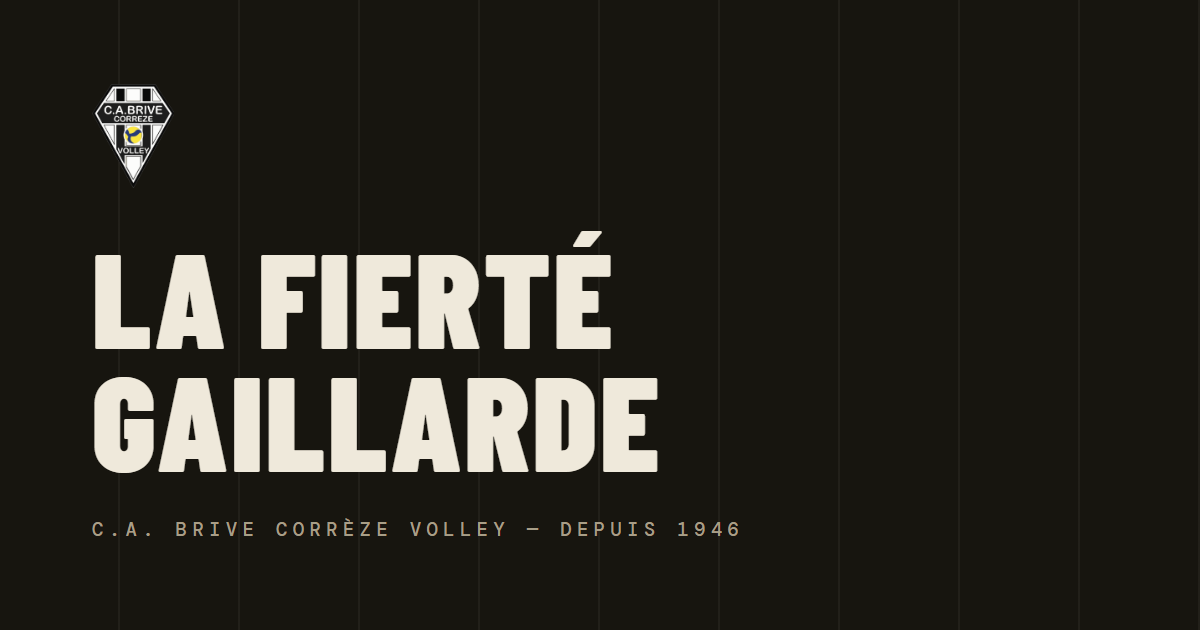
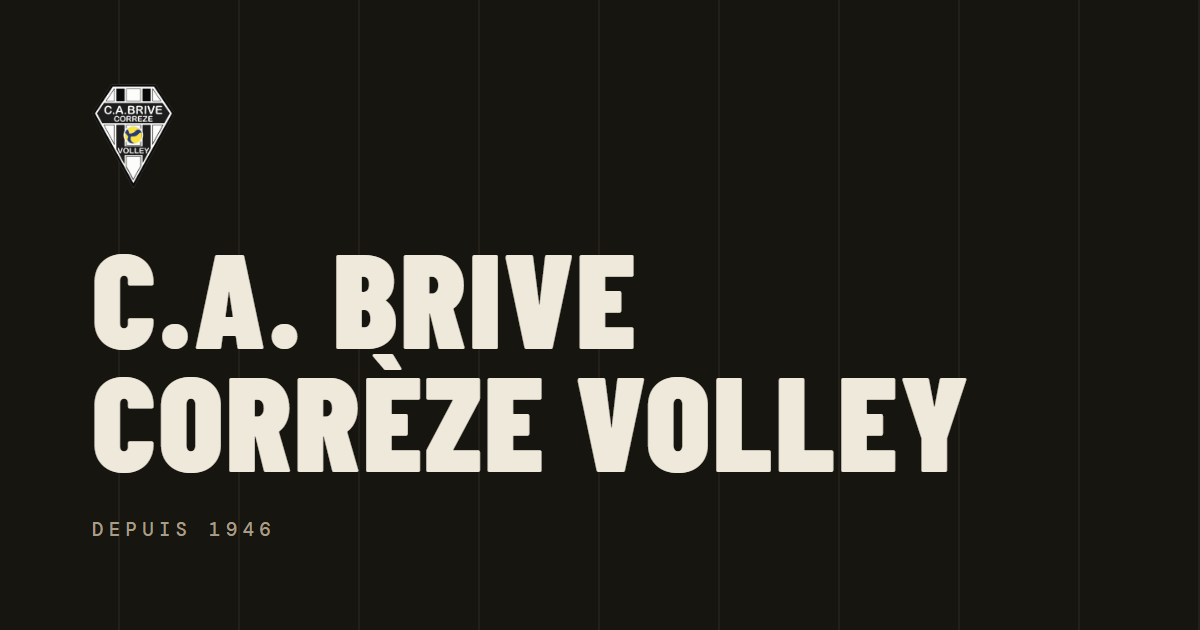
Vignette de partage : le nom du club, comme sur l accueil
La vignette annoncait encore « La fierte gaillarde » quand la page qu elle
represente porte le nom du club depuis hier. C est la premiere chose que
voit qui recoit un lien du site sur une messagerie ; elle disait autre
chose que la page.

Le pied suit le meme raisonnement que le surtitre retire de l accueil :
« C.A. Brive Correze Volley — depuis 1946 » sous un titre qui enonce deja
le nom aurait ete un doublon mot pour mot. Il ne garde que « Depuis 1946 »,
la seule moitie que le titre ne dit pas.

Refabriquee selon la procedure du README : serveur a la racine du depot,
capture a 1200x630. La ligne « CORREZE VOLLEY », la plus large, occupe
965 des 1016 px du cadre a 134 px — aucun reglage de taille a toucher.

diff --git a/scripts/images/partage.html b/scripts/images/partage.html
@@ -28,7 +28,7 @@ h1{font-family:'Barlow Condensed',sans-serif;font-weight:900;text-transform:uppe
 <div class="carte">
   <div class="lines"></div>
   <img class="logo" src="../../site/assets/logo.png" alt="">
-  <h1>La fiert&eacute;<br>gaillarde</h1>
-  <div class="pied">C.A. Brive Corr&egrave;ze Volley &mdash; depuis 1946</div>
+  <h1>C.A. Brive<br>Corr&egrave;ze Volley</h1>
+  <div class="pied">Depuis 1946</div>
 </div>
 </body></html>
